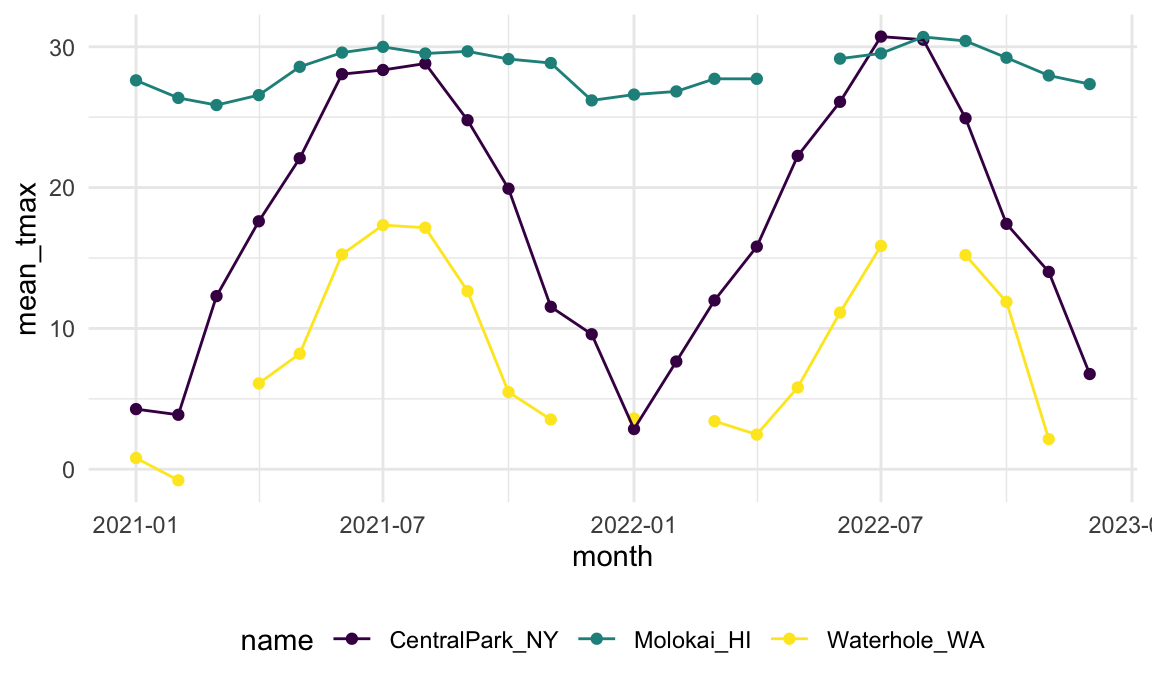
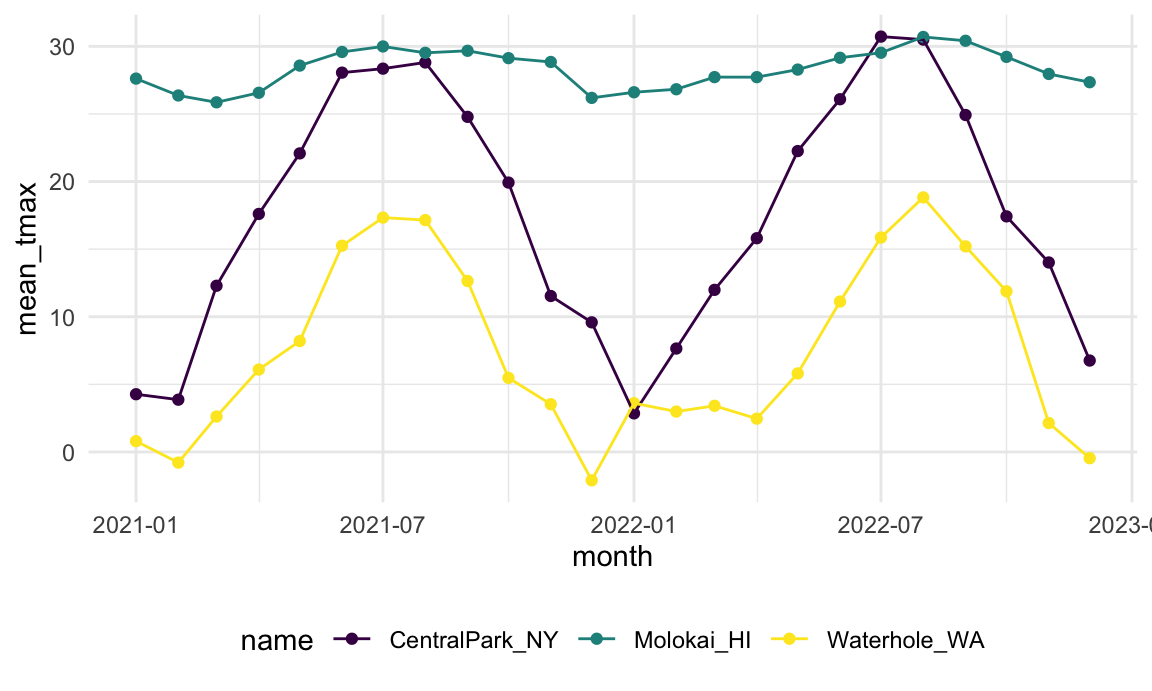
pre-lecture updates

diff --git a/exploratory_analysis.html b/exploratory_analysis.html
@@ -662,44 +662,42 @@ days in Central Park and Waterhole. We can do this with some extra data
 manipulation steps and <code>group_by</code> +
 <code>summarize</code>:</p>
 <pre class="r"><code>weather_df |&gt; 
+  drop_na(tmax) |&gt; 
   mutate(
     cold = case_when(
       tmax &lt;  5 ~ &quot;cold&quot;,
       tmax &gt;= 5 ~ &quot;not_cold&quot;,
       TRUE      ~ &quot;&quot;
   )) |&gt; 
-  filter(name != &quot;Waikiki_HA&quot;) |&gt; 
+  filter(name != &quot;Molokai_HI&quot;) |&gt; 
   group_by(name, cold) |&gt; 
   summarize(count = n())
 ## `summarise()` has grouped output by &#39;name&#39;. You can override using the
 ## `.groups` argument.
-## # A tibble: 7 × 3
-## # Groups:   name [3]
-##   name           cold       count
-##   &lt;chr&gt;          &lt;chr&gt;      &lt;int&gt;
-## 1 CentralPark_NY &quot;cold&quot;        96
-## 2 CentralPark_NY &quot;not_cold&quot;   634
-## 3 Molokai_HI     &quot;&quot;             1
-## 4 Molokai_HI     &quot;not_cold&quot;   729
-## 5 Waterhole_WA   &quot;&quot;            16
-## 6 Waterhole_WA   &quot;cold&quot;       319
-## 7 Waterhole_WA   &quot;not_cold&quot;   395</code></pre>
+## # A tibble: 4 × 3
+## # Groups:   name [2]
+##   name           cold     count
+##   &lt;chr&gt;          &lt;chr&gt;    &lt;int&gt;
+## 1 CentralPark_NY cold        96
+## 2 CentralPark_NY not_cold   634
+## 3 Waterhole_WA   cold       319
+## 4 Waterhole_WA   not_cold   395</code></pre>
 <p>This is a “tidy” table, and it’s also a data frame. You could
 re-organize into a more standard (non-tidy) 2x2 table using
 <code>pivot_wider</code>, or you could use
 <code>janitor::tabyl</code>:</p>
 <pre class="r"><code>weather_df |&gt; 
+  drop_na(tmax) |&gt; 
   mutate(cold = case_when(
     tmax &lt;  5 ~ &quot;cold&quot;,
     tmax &gt;= 5 ~ &quot;not_cold&quot;,
     TRUE     ~ &quot;&quot;
   )) |&gt; 
-  filter(name != &quot;Waikiki_HA&quot;) |&gt; 
+  filter(name != &quot;Molokai_HI&quot;) |&gt; 
   janitor::tabyl(name, cold)
-##            name cold not_cold emptystring_
-##  CentralPark_NY   96      634            0
-##      Molokai_HI    0      729            1
-##    Waterhole_WA  319      395           16</code></pre>
+##            name cold not_cold
+##  CentralPark_NY   96      634
+##    Waterhole_WA  319      395</code></pre>
 <p>This isn’t tidy, but it is still a data frame – and that’s noticeably
 better than usual output from R’s built-in <code>table</code> function.
 <code>janitor</code> has a lot of little functions like this that turn
@@ -727,7 +725,7 @@ they apply and include any additional arguments as necessary.</p>
 <pre class="r"><code>weather_df |&gt;
   group_by(month) |&gt;
   summarize(
-    mean_tmax = mean(tmax),
+    mean_tmax = mean(tmax, na.rm = TRUE),
     mean_prec = mean(prcp, na.rm = TRUE),
     median_tmax = median(tmax),
     sd_tmax = sd(tmax))
@@ -736,7 +734,7 @@ they apply and include any additional arguments as necessary.</p>
 ##   &lt;date&gt;         &lt;dbl&gt;     &lt;dbl&gt;       &lt;dbl&gt;   &lt;dbl&gt;
 ## 1 2021-01-01     10.9       39.5         5     12.2 
 ## 2 2021-02-01      9.82      42.6         2.8   12.2 
-## 3 2021-03-01     NA         55.5        NA     NA   
+## 3 2021-03-01     13.7       55.5        NA     NA   
 ## 4 2021-04-01     16.8       14.7        18.0    9.29
 ## 5 2021-05-01     19.6       17.3        22.2    9.40
 ## 6 2021-06-01     24.3       14.1        28.3    8.28
@@ -785,14 +783,12 @@ within broader analysis pipelines. For example, we can take create a
 plot based on the monthly summary:</p>
 <pre class="r"><code>weather_df |&gt;
   group_by(name, month) |&gt;
-  summarize(mean_tmax = mean(tmax)) |&gt;
+  summarize(mean_tmax = mean(tmax, na.rm = TRUE)) |&gt;
   ggplot(aes(x = month, y = mean_tmax, color = name)) + 
     geom_point() + geom_line() + 
     theme(legend.position = &quot;bottom&quot;)
 ## `summarise()` has grouped output by &#39;name&#39;. You can override using the
-## `.groups` argument.
-## Warning: Removed 6 rows containing missing values (`geom_point()`).
-## Warning: Removed 1 row containing missing values (`geom_line()`).</code></pre>
+## `.groups` argument.</code></pre>
 <p><img src="exploratory_analysis_files/figure-html/unnamed-chunk-16-1.png" width="90%" /></p>
 <p>The results of <code>group_by()</code> and <code>summarize()</code>
 are generally tidy, but presenting reader-friendly results for this kind
@@ -801,7 +797,7 @@ example, the table below shows month-by-month average max temperatures
 in a more human-readable format.</p>
 <pre class="r"><code>weather_df |&gt;
   group_by(name, month) |&gt;
-  summarize(mean_tmax = mean(tmax)) |&gt; 
+  summarize(mean_tmax = mean(tmax, na.rm = TRUE)) |&gt; 
   pivot_wider(
     names_from = name,
     values_from = mean_tmax) |&gt; 
@@ -834,7 +830,7 @@ in a more human-readable format.</p>
 <td align="left">2021-03-01</td>
 <td align="right">12.3</td>
 <td align="right">25.9</td>
-<td align="right">NA</td>
+<td align="right">2.6</td>
 </tr>
 <tr class="even">
 <td align="left">2021-04-01</td>
@@ -888,7 +884,7 @@ in a more human-readable format.</p>
 <td align="left">2021-12-01</td>
 <td align="right">9.6</td>
 <td align="right">26.2</td>
-<td align="right">NA</td>
+<td align="right">-2.1</td>
 </tr>
 <tr class="odd">
 <td align="left">2022-01-01</td>
@@ -900,7 +896,7 @@ in a more human-readable format.</p>
 <td align="left">2022-02-01</td>
 <td align="right">7.7</td>
 <td align="right">26.8</td>
-<td align="right">NA</td>
+<td align="right">3.0</td>
 </tr>
 <tr class="odd">
 <td align="left">2022-03-01</td>
@@ -917,7 +913,7 @@ in a more human-readable format.</p>
 <tr class="odd">
 <td align="left">2022-05-01</td>
 <td align="right">22.3</td>
-<td align="right">NA</td>
+<td align="right">28.3</td>
 <td align="right">5.8</td>
 </tr>
 <tr class="even">
@@ -936,7 +932,7 @@ in a more human-readable format.</p>
 <td align="left">2022-08-01</td>
 <td align="right">30.5</td>
 <td align="right">30.7</td>
-<td align="right">NA</td>
+<td align="right">18.8</td>
 </tr>
 <tr class="odd">
 <td align="left">2022-09-01</td>
@@ -960,7 +956,7 @@ in a more human-readable format.</p>
 <td align="left">2022-12-01</td>
 <td align="right">6.8</td>
 <td align="right">27.3</td>
-<td align="right">NA</td>
+<td align="right">-0.5</td>
 </tr>
 </tbody>
 </table>
